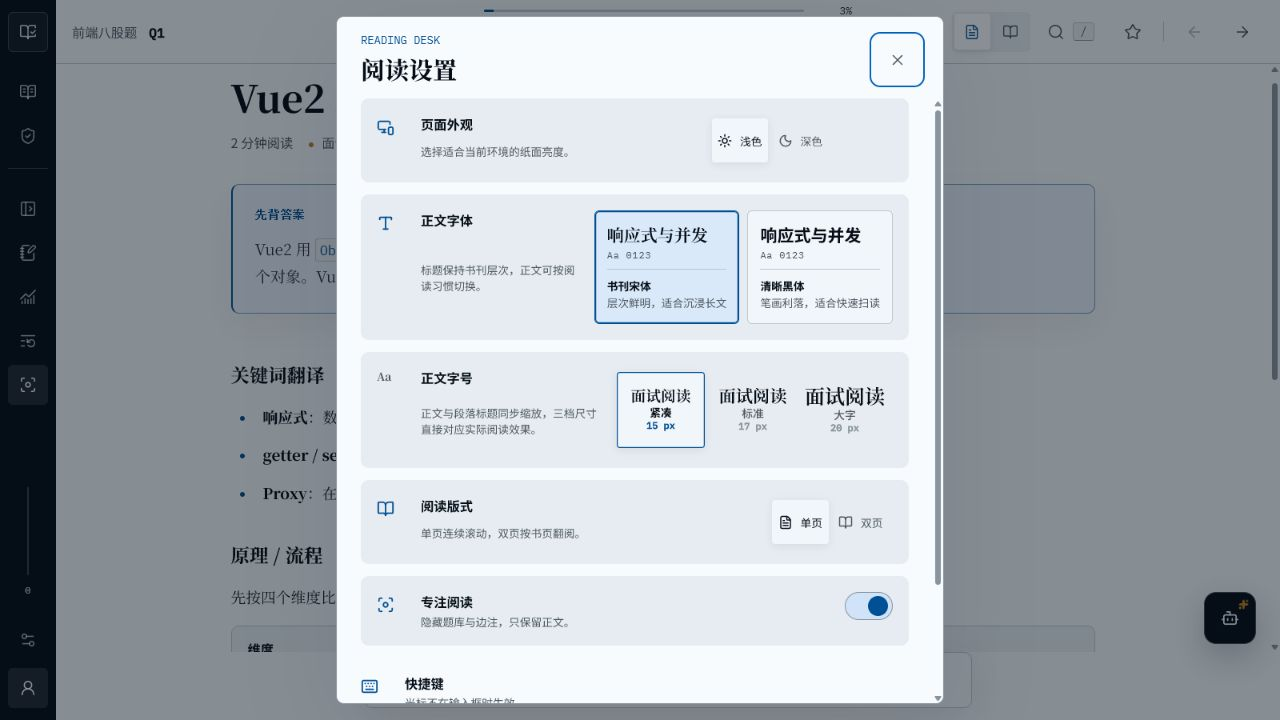
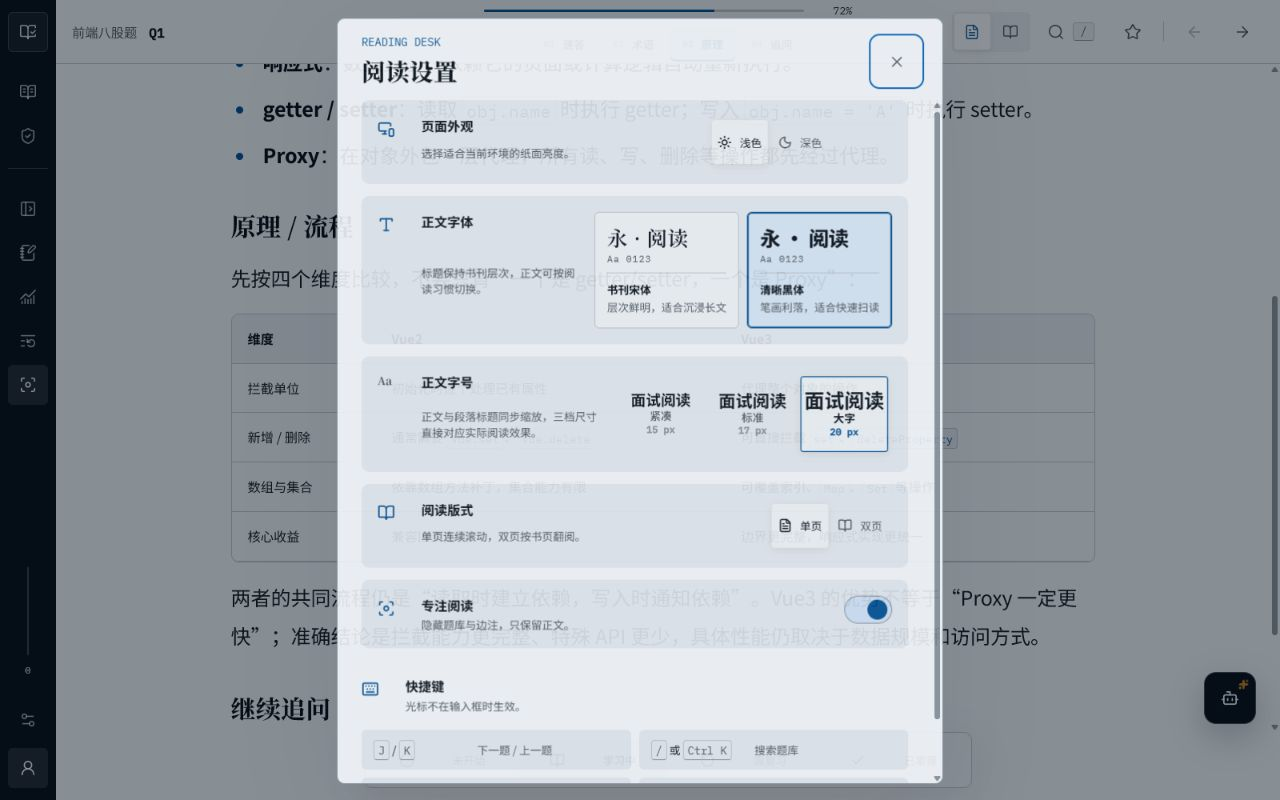
fix: refine learning route and reading typography

diff --git a/src/components/Reader.tsx b/src/components/Reader.tsx
@@ -235,12 +235,32 @@ export function Reader({
   }, [])
 
   const updateActiveLearningSection = useCallback(() => {
-    if (spreadMode || learningOutline.length === 0) return
-    const container = scrollRef.current
+    if (learningOutline.length === 0) return
     const article = articleRef.current
-    if (!container || !article) return
+    if (!article) return
 
     const firstSectionId = learningOutline[0].id
+    if (spreadMode) {
+      const viewport = viewportRef.current
+      if (!viewport) return
+      const activationLine = viewport.getBoundingClientRect().left + 8
+      let nextSectionId = firstSectionId
+
+      for (const item of learningOutline) {
+        const target = document.getElementById(item.id)
+        if (!(target instanceof HTMLElement) || !article.contains(target)) continue
+        const targetRect = target.getBoundingClientRect()
+        if (targetRect.width === 0 && targetRect.height === 0) continue
+        if (targetRect.left > activationLine) break
+        nextSectionId = item.id
+      }
+
+      setActiveLearningSectionId((current) => current === nextSectionId ? current : nextSectionId)
+      return
+    }
+
+    const container = scrollRef.current
+    if (!container) return
     if (container.scrollTop <= 1) {
       setActiveLearningSectionId((current) => current === firstSectionId ? current : firstSectionId)
       return
@@ -365,6 +385,27 @@ export function Reader({
     return () => observer.disconnect()
   }, [annotations.length, contentRevision, question.id, readingSize, scheduleLearningSectionUpdate, updateReadingProgress])
 
+  useEffect(() => {
+    if (!spreadMode) return
+    const article = articleRef.current
+    if (!article) return
+
+    const handleDisclosureToggle = (event: Event) => {
+      const disclosure = event.target
+      if (
+        disclosure instanceof HTMLDetailsElement
+        && disclosure.classList.contains('learning-section__details')
+      ) {
+        // Opening or closing a disclosure changes the multi-column scrollWidth,
+        // not its observed content box. Force spread geometry to be measured again.
+        setContentRevision((current) => current + 1)
+      }
+    }
+
+    article.addEventListener('toggle', handleDisclosureToggle, true)
+    return () => article.removeEventListener('toggle', handleDisclosureToggle, true)
+  }, [question.id, spreadMode])
+
   useLayoutEffect(() => {
     const viewport = viewportRef.current
     const flow = flowRef.current
@@ -405,6 +446,7 @@ export function Reader({
         // column flow directly so each spread always starts on an exact page.
         viewport.scrollLeft = 0
         positionSpreadFlow(flow, nextIndex, nextGeometry)
+        scheduleLearningSectionUpdate()
         if (nextIndex !== spreadIndexRef.current) {
           spreadIndexRef.current = nextIndex
           setSpreadIndex(nextIndex)
@@ -423,7 +465,7 @@ export function Reader({
       window.cancelAnimationFrame(frame)
       observer.disconnect()
     }
-  }, [annotations.length, contentRevision, question.id, readingSize, spreadMode])
+  }, [annotations.length, contentRevision, question.id, readingSize, scheduleLearningSectionUpdate, spreadMode])
 
   useEffect(() => () => {
     turnSequence.current += 1
@@ -477,6 +519,7 @@ export function Reader({
     spreadIndexRef.current = nextIndex
     setSpreadIndex(nextIndex)
     onSpreadChangeRef.current(nextIndex)
+    scheduleLearningSectionUpdate()
   }
 
   const openLearningSection = (sectionId: string) => {
@@ -486,7 +529,9 @@ export function Reader({
 
     setActiveLearningSectionId(sectionId)
     const disclosure = target.querySelector<HTMLDetailsElement>('details.learning-section__details')
-    if (disclosure) disclosure.open = true
+    if (disclosure && !disclosure.open) {
+      disclosure.open = true
+    }
 
     const reduceMotion = window.matchMedia('(prefers-reduced-motion: reduce)').matches
     if (spreadMode && flowRef.current) {

diff --git a/src/components/Reader.test.tsx b/src/components/Reader.test.tsx
@@ -5,9 +5,11 @@ import type { InterviewQuestion } from '../types'
 import { Reader } from './Reader'
 
 class ResizeObserverMock {
+  static instanceCount = 0
   private readonly callback: ResizeObserverCallback
 
   constructor(callback: ResizeObserverCallback) {
+    ResizeObserverMock.instanceCount += 1
     this.callback = callback
   }
 
@@ -68,7 +70,10 @@ const secondQuestion: InterviewQuestion = {
   title: 'Q2：React 为什么需要 key？',
 }
 
-function renderReader(question = firstQuestion) {
+function renderReader(
+  question = firstQuestion,
+  overrides: Partial<Parameters<typeof Reader>[0]> = {},
+) {
   const props = {
     question,
     annotations: [],
@@ -81,11 +86,13 @@ function renderReader(question = firstQuestion) {
     onScrollPosition: vi.fn(),
     onSpreadChange: vi.fn(),
     onSpreadAvailabilityChange: vi.fn(),
+    ...overrides,
   }
   return { ...render(<Reader {...props} />), props }
 }
 
 beforeEach(() => {
+  ResizeObserverMock.instanceCount = 0
   vi.stubGlobal('ResizeObserver', ResizeObserverMock)
   vi.stubGlobal('requestAnimationFrame', (callback: FrameRequestCallback) => {
     callback(0)
@@ -109,6 +116,7 @@ beforeEach(() => {
 afterEach(() => {
   cleanup()
   vi.unstubAllGlobals()
+  vi.restoreAllMocks()
 })
 
 describe('Reader learning document structure', () => {
@@ -158,13 +166,41 @@ describe('Reader learning document structure', () => {
 
     expect(sourcesDetails).toBeInstanceOf(HTMLDetailsElement)
     expect(sourcesDetails).not.toHaveAttribute('open')
-
     fireEvent.click(sourcesLink)
 
     expect(answerLink).not.toHaveAttribute('aria-current')
     expect(sourcesLink).toHaveAttribute('aria-current', 'location')
     expect(sourcesDetails).toHaveAttribute('open')
     expect(document.activeElement).toBe(sourcesSection)
+  })
+
+  it('remeasures spread geometry when a learning disclosure is toggled', () => {
+    vi.spyOn(HTMLElement.prototype, 'clientWidth', 'get').mockImplementation(function (this: HTMLElement) {
+      if (this.classList.contains('reader-scroll')) return 1200
+      if (this.classList.contains('reader__flow')) return 1000
+      return 0
+    })
+    vi.spyOn(HTMLElement.prototype, 'clientHeight', 'get').mockImplementation(function (this: HTMLElement) {
+      return this.classList.contains('reader-scroll') ? 800 : 0
+    })
+    vi.spyOn(HTMLElement.prototype, 'scrollWidth', 'get').mockImplementation(function (this: HTMLElement) {
+      return this.classList.contains('reader__flow') ? 2400 : 0
+    })
+
+    const { props } = renderReader(firstQuestion, { pageLayout: 'spread' })
+    const sourcesDetails = document
+      .getElementById('learning-section-sources')
+      ?.querySelector<HTMLDetailsElement>('details')
+
+    expect(props.onSpreadAvailabilityChange).toHaveBeenCalledWith(true)
+    expect(sourcesDetails).toBeInstanceOf(HTMLDetailsElement)
+    if (!sourcesDetails) return
+
+    const observerCountBeforeToggle = ResizeObserverMock.instanceCount
+    sourcesDetails.open = true
+    fireEvent(sourcesDetails, new Event('toggle'))
+
+    expect(ResizeObserverMock.instanceCount).toBeGreaterThan(observerCountBeforeToggle)
   })
 
   it('focuses the new question title without putting it in the tab order', () => {

diff --git a/src/styles.css b/src/styles.css
@@ -3751,20 +3751,23 @@ body:has(dialog[open]) .reader {
 
 .settings-font-option__sample strong {
   overflow: hidden;
-  font-size: 1.05rem;
+  font-size: 1.28rem;
   font-weight: 650;
-  line-height: 1.35;
+  line-height: 1.25;
   text-overflow: ellipsis;
   white-space: nowrap;
 }
 
 .settings-font-option--serif .settings-font-option__sample strong {
   font-family: var(--font-reading-serif);
+  font-weight: 600;
+  letter-spacing: 0.025em;
 }
 
 .settings-font-option--sans .settings-font-option__sample strong {
   font-family: var(--font-reading-sans);
-  font-weight: 700;
+  font-weight: 760;
+  letter-spacing: -0.02em;
 }
 
 .settings-font-option__sample small {
@@ -5779,6 +5782,23 @@ body:has(.admin-overlay) {
 @media (max-width: 30rem) {
   .settings-font-segment {
     grid-template-columns: minmax(0, 1fr);
+  }
+
+  .settings-size-segment {
+    grid-template-columns: minmax(0, 1fr);
+  }
+
+  .settings-segment button.settings-size-option {
+    min-height: 4rem;
+    flex-direction: row;
+    justify-content: space-between;
+    padding-inline: var(--space-sm);
+  }
+
+  .settings-size-option__label {
+    grid-template-columns: auto auto;
+    align-items: baseline;
+    gap: var(--space-xs);
   }
 }
 

diff --git a/src/components/SettingsDialog.tsx b/src/components/SettingsDialog.tsx
@@ -69,7 +69,7 @@ export function SettingsDialog({ open, settings, spreadAvailable, onClose, onCha
                 onClick={() => setFont(option.value)}
               >
                 <span className="settings-font-option__sample" aria-hidden="true">
-                  <strong>响应式与并发</strong>
+                  <strong>永 · 阅读</strong>
                   <small>Aa 0123</small>
                 </span>
                 <span className="settings-font-option__copy">

diff --git a/design-qa.md b/design-qa.md
@@ -109,3 +109,14 @@ No actionable P0, P1, or P2 issues remain.
 - P3: during a long smooth scroll, the highlight intentionally follows the intermediate sections before settling on the clicked destination. This is consistent with the scrollspy model and does not block use.
 
 final result: passed
+
+## Iteration 3 — responsive font contrast and spread reflow (2026-08-04)
+
+- Font comparison cards now use the same enlarged `永 · 阅读` specimen. Serif and sans samples also use deliberately different weight and tracking, making the structural difference visible before selection.
+- The 320 x 760 verification stacks both font cards and all three size choices. Size choices become full-width rows, so the 15/17/20 px samples remain readable without overlap.
+- New mobile evidence: `artifacts/font-settings-320-qa.png`. Updated desktop evidence: `artifacts/font-settings-qa.png`.
+- The learning-route current item follows the actual single-page scroll position and the visible spread in two-page mode. Directly toggling follow-up/source disclosures now forces spread geometry to be measured again because those changes affect multi-column `scrollWidth` rather than the observed content box.
+- Browser verification: page-end selected `追问`; clicking `原理` selected it immediately and aligned the section heading to the reading viewport. No clipping was observed at 1280 px or 320 px.
+- Automated verification: 38 test files / 191 tests passed; focused Reader and SettingsDialog checks passed again after the final visual refinement; production build passed.
+
+final result: passed
